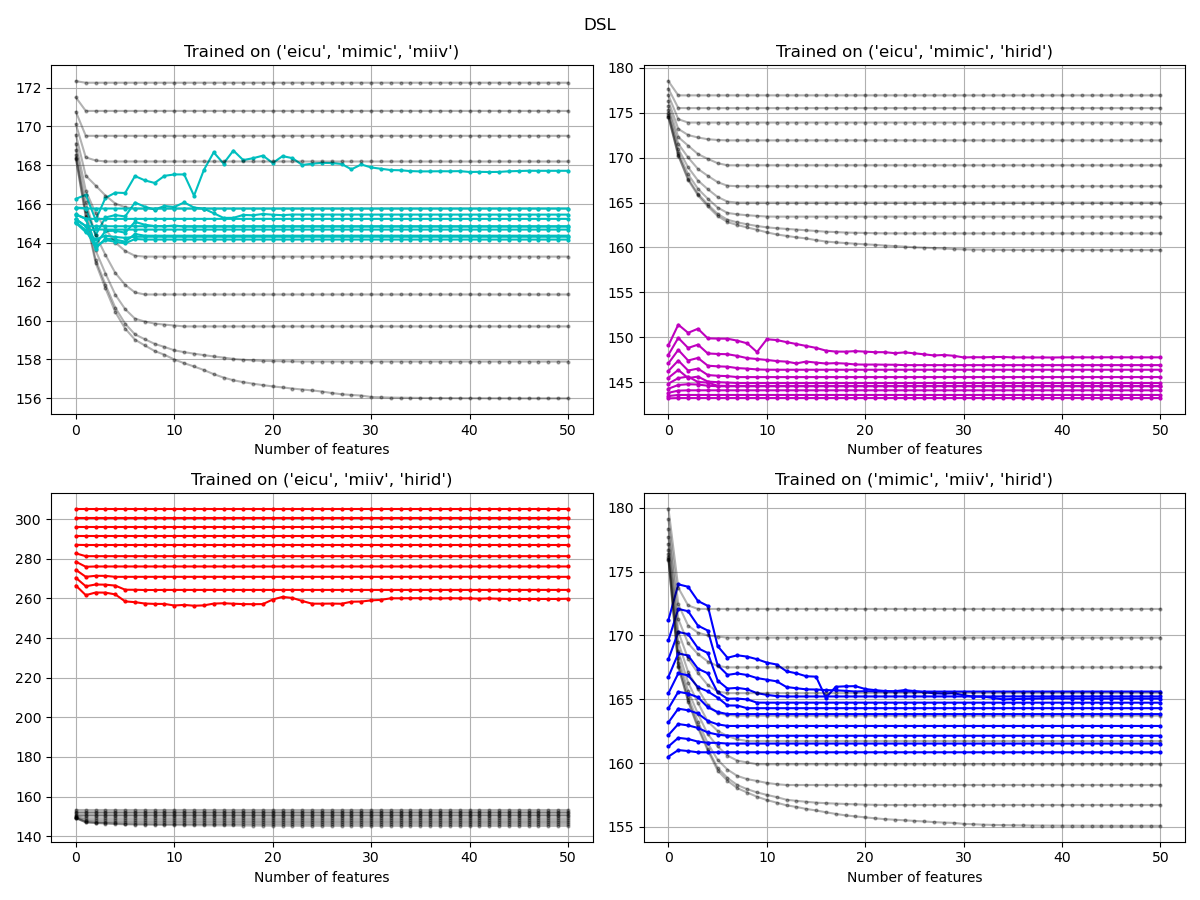
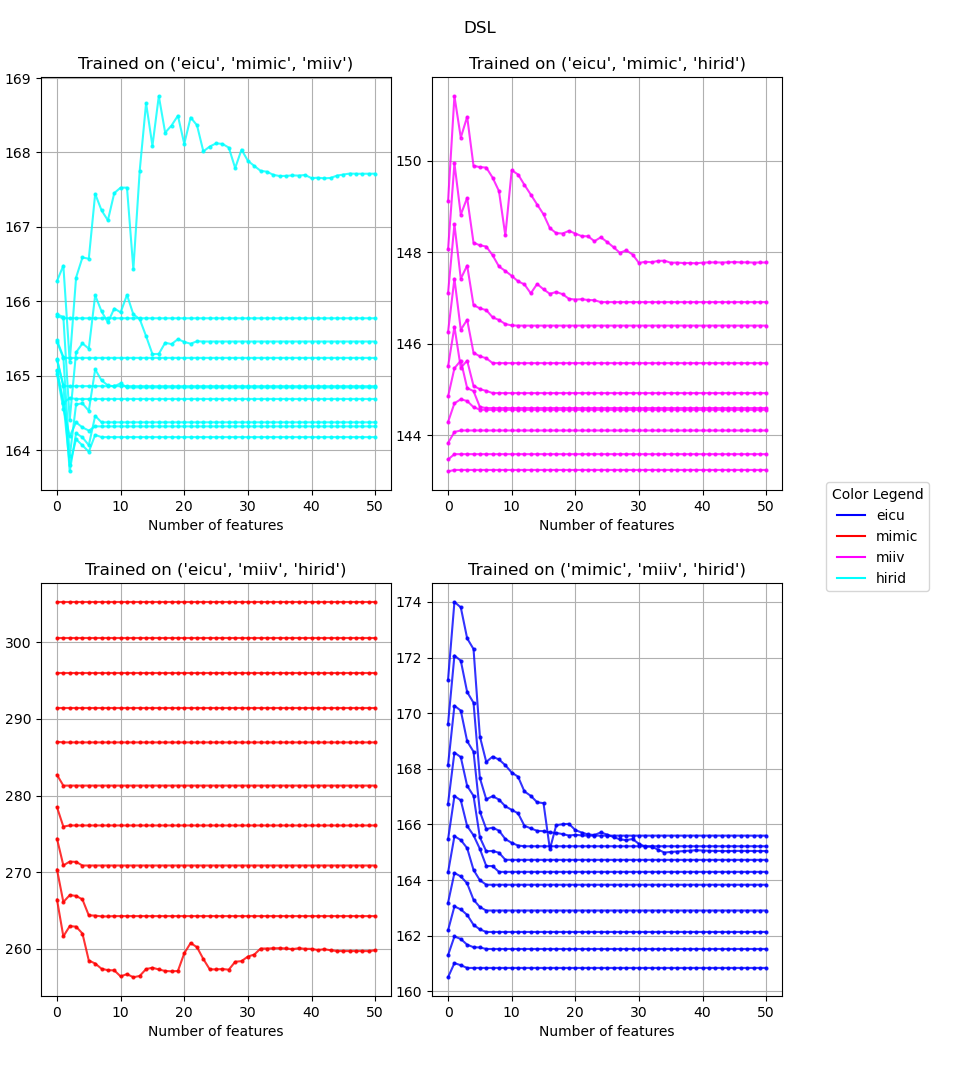
include colorbars

Changed region(s): [[0.0, 0.0, 1.0, 0.9956]]

diff --git a/ForwardSelection/plotting.py b/ForwardSelection/plotting.py
@@ -1,6 +1,6 @@
 import pandas as pd
 import matplotlib.pyplot as plt
-
+from matplotlib.cm import ScalarMappable
 from itertools import combinations
 
 datasets = ['eicu', 'mimic', 'miiv', 'hirid']
@@ -46,6 +46,101 @@ for r in range(2,4):
     fig.suptitle('Lasso Baseline')
 plt.tight_layout()
 
+for r in range(2, 4):
+    if r == 2:
+        fig, axs = plt.subplots(2, 3, figsize=(12, 9))
+    if r == 3:
+        fig, axs = plt.subplots(2, 2, figsize=(12, 9))
+    i = 0
+    for group_combination in combinations(datasets, r):
+        if r == 2:
+            row = i % 2
+            col = i % 3
+        if r == 3:
+            row, col = divmod(i, 2)
+        ax = axs[row, col]
+        data = pd.read_parquet(
+            f'dsl_results/multiple alpha/multiple_alphas_train_on_{group_combination}_forward_selection_results.parquet')
+        alphas = data['alpha'].unique()
+        colors = {'eicu': 'blue', 'mimic': 'red', 'miiv': 'magenta', 'hirid': 'cyan'}
+        norm = plt.Normalize(vmin=min(alphas), vmax=max(alphas))
+        cmap = plt.get_cmap('viridis')
+        scalar_map = ScalarMappable(norm=norm, cmap=cmap)
+        for alpha in alphas:
+            for col in data.columns:
+                splitted_col = col.split(' ')
+                dataset_name = None
+                for dataset in datasets:
+                    if dataset in splitted_col:
+                        dataset_name = dataset
+                        break
+                if dataset_name:
+                    if 'name' not in col:
+                        # if 'train' in col:
+                        #     color = scalar_map.to_rgba(alpha)
+                        #     ax.plot(range(0, 51), data[data['alpha'] == alpha][col].iloc[0],
+                        #             color=color, alpha=1, marker='o', linestyle='-',
+                        #             ms=2, label='train')
+                        if 'test' in col:
+                            color = scalar_map.to_rgba(alpha)
+                            ax.plot(range(0, 51), data[data['alpha'] == alpha][col].iloc[0],
+                                    color=color, alpha=0.8, marker='o', linestyle='-',
+                                    ms=2, label='test')
+        ax.grid()
+        ax.set_xlabel('Number of features')
+        ax.set_title(f'Trained on {group_combination}')
+        i += 1
+    fig.suptitle('DSL')
+    plt.tight_layout()
+    plt.colorbar(scalar_map, ax=axs, orientation='vertical', label='Alpha')
+
+
+colors = {'eicu': 'blue', 'mimic': 'red', 'miiv': 'magenta', 'hirid': 'cyan'}
+
+# Create figures
+for r in range(2, 4):
+    if r == 2:
+        fig, axs = plt.subplots(2,3,figsize=(12,9))
+        fig.subplots_adjust(right=0.8)
+    if r == 3:
+        fig, axs = plt.subplots(2,2,figsize=(12,9))
+        fig.subplots_adjust(right=0.75)
+    i = 0
+    for group_combination in combinations(datasets, r):
+        if r == 2:
+            row = i%2
+            col = i%3
+        if r == 3:
+            row, col = divmod(i,2)
+        ax = axs[row, col]
+        data = pd.read_parquet(f'dsl_results/multiple alpha/multiple_alphas_train_on_{group_combination}_forward_selection_results.parquet')
+        alphas = data['alpha'].unique()
+        for alpha in alphas:
+            for col in data.columns:
+                splitted_col = col.split(' ')
+                if 'name' not in col:
+                    # if 'train' in col: # ctrl + /
+                    #     ax.plot(range(0, 51), data[data['alpha']==alpha][col].iloc[0], 'ko-', ms=2, alpha=0.3)
+                    if 'test' in col:
+                        for dataset_name, color in colors.items():
+                            if dataset_name in col:
+                                ax.plot(range(0, 51), data[data['alpha']==alpha][col].iloc[0], color=color, marker='o', linestyle='-', ms=2, alpha=0.8)
+        ax.grid()
+        ax.set_xlabel('Number of features')
+        ax.set_title(f'Trained on {group_combination}')
+        i += 1
+    
+    # Create a color legend subplot
+    ax_legend = fig.add_subplot(1, 1, 1, frameon=False)
+    ax_legend.axis('off')
+    for dataset_name, color in colors.items():
+        ax_legend.plot([], [], color=color, label=dataset_name)
+    ax_legend.legend(title='Color Legend', loc='center left', bbox_to_anchor=(1.05, 0.5))
+
+    fig.suptitle('DSL')
+    plt.tight_layout(rect=[0, 0, 0.95, 1])
+plt.show()
+''' Past code
 for r in range(2,4):
     if r == 2:
         fig, axs = plt.subplots(2,3,figsize=(12,9))
@@ -82,4 +177,4 @@ for r in range(2,4):
         i += 1
     fig.suptitle('DSL')
     plt.tight_layout()
-plt.show()
+plt.show()'''
